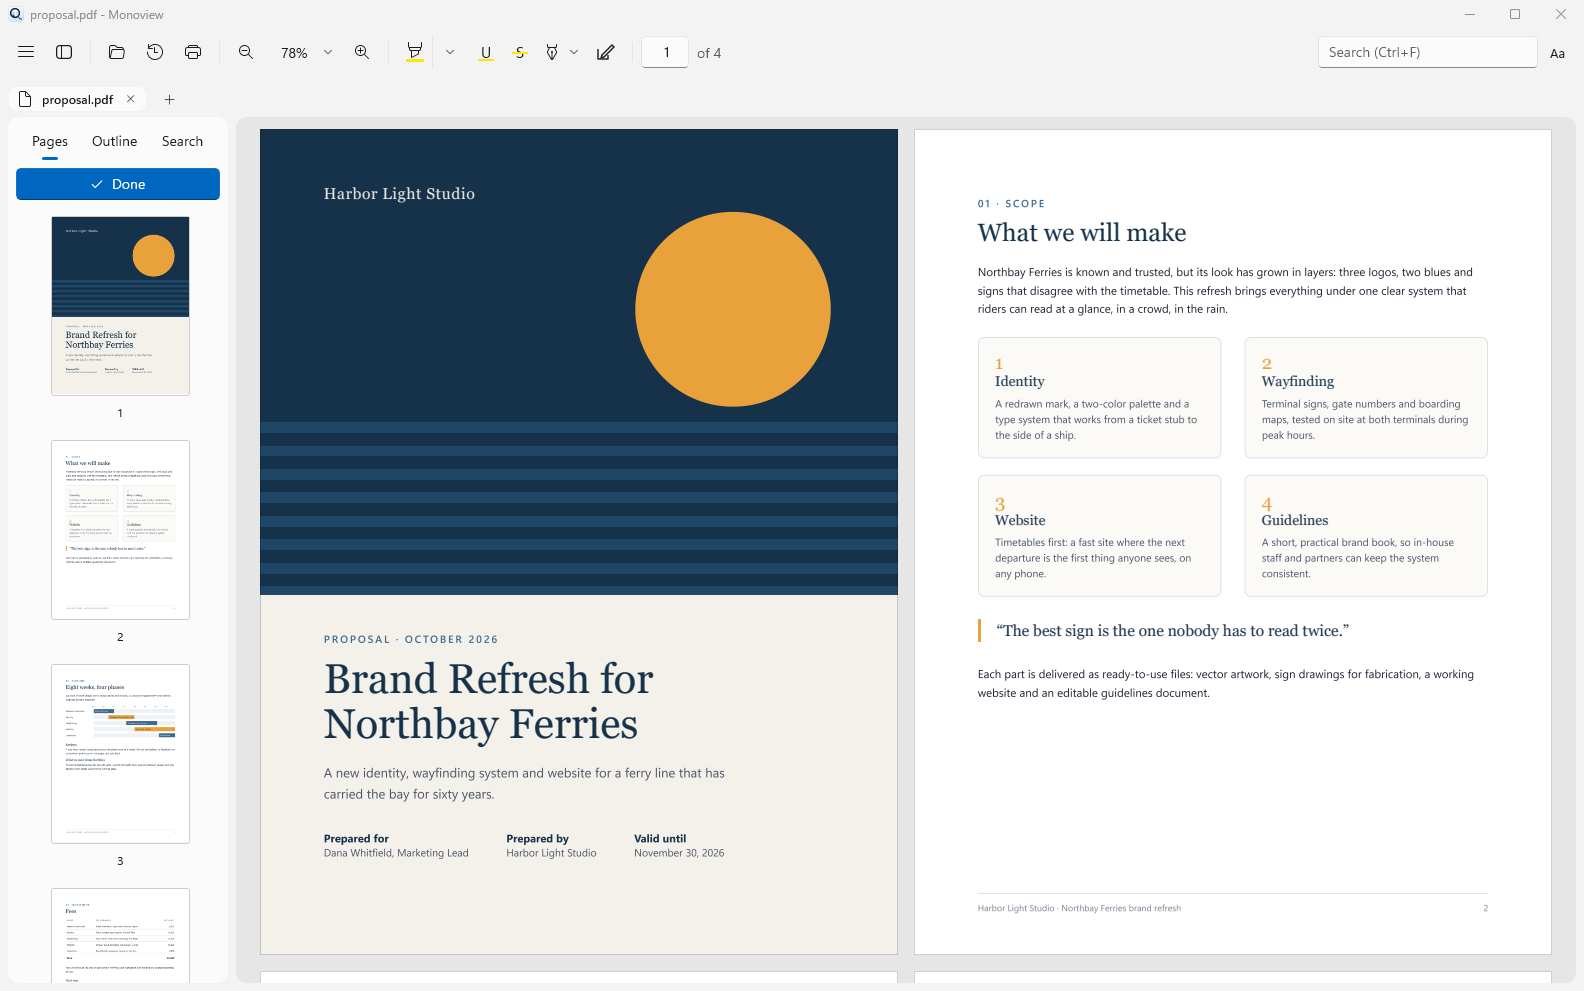
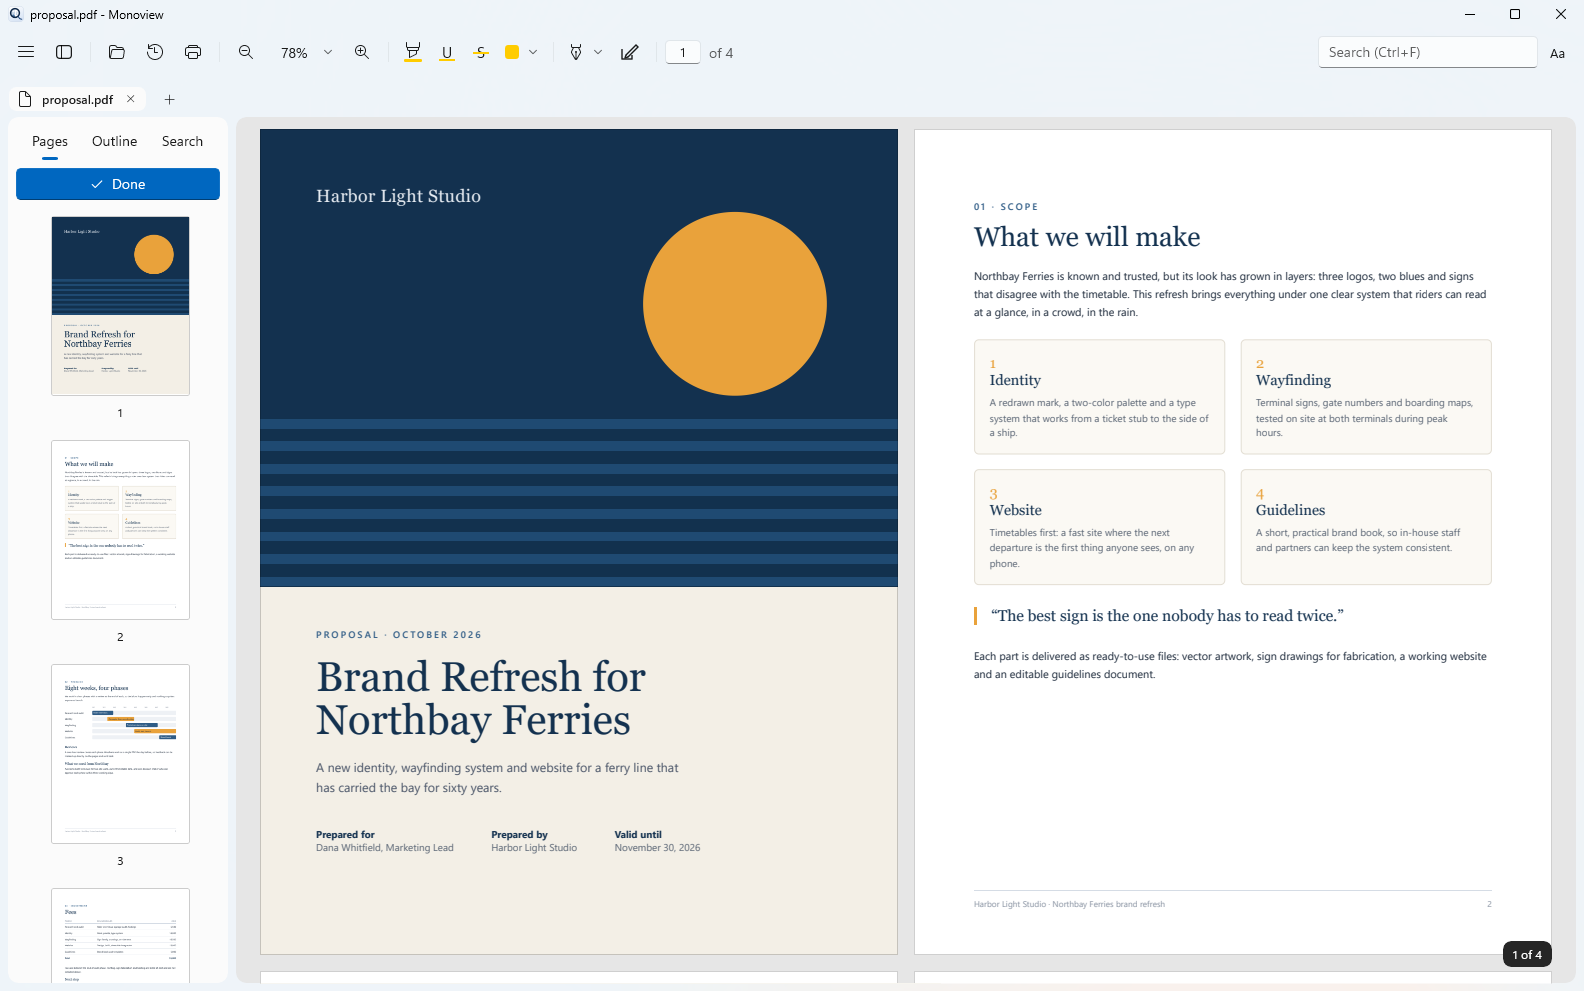
Retake the README and website screenshots on the 0.4.0 build from rebuilt samples, with a commented highlight and the comments pane in the hero; Describe comments in the hero's alt text and in both feature lists.

diff --git a/docs/index.html b/docs/index.html
@@ -64,7 +64,7 @@ html{scroll-behavior:smooth}
 
   <!-- Hero shot -->
   <div style="max-width: 1160px; margin: 0 auto; padding: 0 24px 96px">
-    <img src="images/overview-light.png" alt="Monoview showing a four-page proposal in two-page view with page thumbnails" style="display: block; width: 100%; max-width: 980px; height: auto; margin: 0 auto; border-radius: 12px; border: 1px solid #D5DEEA; box-shadow: 0 30px 80px rgba(11, 37, 69, 0.16)">
+    <img src="images/overview-light.png" alt="Monoview showing a four-page proposal in two-page view, with a commented highlight and the comments pane open" style="display: block; width: 100%; max-width: 980px; height: auto; margin: 0 auto; border-radius: 12px; border: 1px solid #D5DEEA; box-shadow: 0 30px 80px rgba(11, 37, 69, 0.16)">
   </div>
 
   <!-- Features -->
@@ -90,7 +90,7 @@ html{scroll-behavior:smooth}
             <svg aria-hidden="true" width="22" height="22" viewBox="0 0 24 24" fill="none" stroke="currentColor" stroke-width="2" stroke-linecap="round" stroke-linejoin="round"><path d="M12 20h9"></path><path d="M16.5 3.5a2.1 2.1 0 0 1 3 3L7 19l-4 1 1-4z"></path></svg>
           </div>
           <h3 style="margin: 0; font-size: 19px; font-weight: 600">Markup and signatures</h3>
-          <p style="margin: 0; color: #3D4B66">Highlight, draw, add shapes, text boxes and sticky notes. Draw, type or photograph your signature and place it in one click.</p>
+          <p style="margin: 0; color: #3D4B66">Highlight and comment, draw, add shapes, text boxes and sticky notes. Draw, type or photograph your signature and place it in one click.</p>
         </div>
 
         <div style="background: #F4F7FB; border-radius: 16px; padding: 28px; display: flex; flex-direction: column; gap: 10px">

diff --git a/README.md b/README.md
@@ -22,7 +22,7 @@
 
 <br>
 
-<img src="docs/images/overview-light.png" width="820" alt="Monoview showing a four-page proposal in two-page view with page thumbnails">
+<img src="docs/images/overview-light.png" width="820" alt="Monoview showing a four-page proposal in two-page view, with a commented highlight and the comments pane open">
 
 <br>
 
@@ -53,6 +53,7 @@ Monoview brings that to Windows. It is a native WinUI 3 app built on PDFium, the
 - The markup bar (Ctrl+Shift+A): freehand drawing, lines, arrows, rectangles, ellipses, text boxes and sticky notes.
 - Line color, fill, line width and text size.
 - Select any object to move, resize or delete it.
+- Comment on highlights, as in Acrobat; see every comment in the comments pane and jump to it.
 
 ### 🖋 Signatures
 - Draw your signature, type it in a handwriting font, or use a photo of it; the paper becomes transparent.
